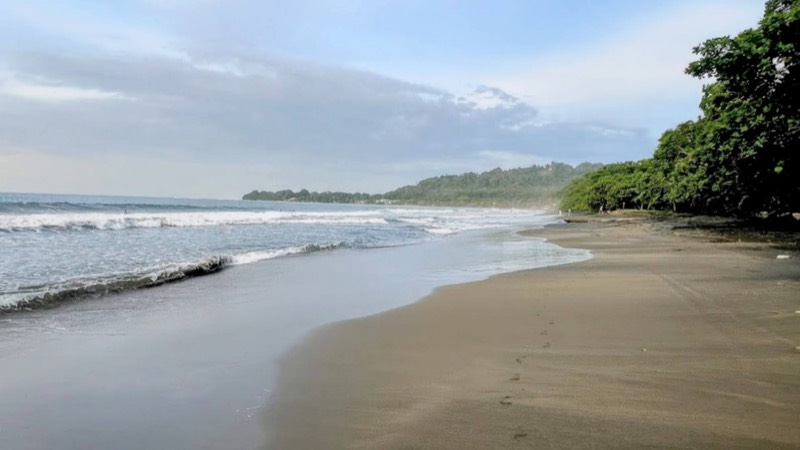
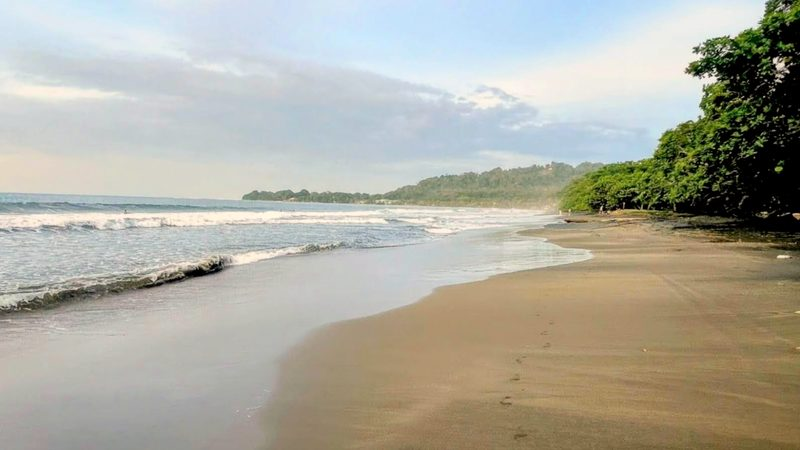
Portada: tarjeta de la oferta bajo la foto, «Cómo funciona» en tres pasos, foto de Playa Negra mejorada con encuadre de selva en el móvil y botón de propietarios que el build añade solo con WA_OWNERS (revisión UX C1)

diff --git a/apps/app/public/portada.html b/apps/app/public/portada.html
@@ -44,14 +44,22 @@
         <p class="soon-place">Playa Negra · Puerto Viejo de Talamanca</p>
       </div>
     </main>
+    <section class="soon-offer" aria-labelledby="oferta">
+      <h2 id="oferta">¿Tiene una casa en el Caribe?</h2>
+      <p><b>Las primeras 50 casas: 12 meses gratis.</b> Después, ₡9 900 al mes por casa, sin comisiones ni permanencia.</p>
+      <!--cta-propietarios--><p class="soon-later">Abrimos pronto en el Caribe sur.</p><!--/cta-propietarios-->
+    </section>
     <section class="soon-more" aria-labelledby="que-es">
       <h2 id="que-es">Qué es bnbtico</h2>
       <p>Un catálogo de casas, apartamentos y habitaciones en alquiler en Costa Rica, publicados por quienes los alquilan. Usted ve la casa, el precio por noche o por mes y le escribe al propietario por WhatsApp. Sin intermediarios, sin comisiones por reserva.</p>
       <h2>Dónde empezamos</h2>
       <p>En el Caribe sur de Limón: Puerto Viejo de Talamanca, Playa Negra, Cocles, Playa Chiquita, Punta Uva, Manzanillo y Cahuita. Casas frente al mar, en la selva o en el pueblo, para un fin de semana, unas vacaciones o una temporada completa.</p>
       <h2>Cómo funciona</h2>
-      <p>Quien tiene una casa la publica con sus fotos, su precio en colones y su WhatsApp verificado; bnbtico la revisa antes de mostrarla. Quien busca, explora sin registrarse, guarda favoritos y contacta directo con un mensaje ya redactado con fechas y personas. El acuerdo es entre las dos personas; nosotros solo las ponemos en contacto.</p>
-      <p class="small muted">¿Tiene una casa en el Caribe? Las primeras 50 casas publicadas tendrán 12 meses gratis.</p>
+      <ol class="soon-steps">
+        <li><b>El propietario publica</b> su casa con fotos, precio en colones y su WhatsApp verificado. bnbtico la revisa antes de mostrarla.</li>
+        <li><b>Usted la encuentra</b> sin registrarse, guarda sus favoritas y le escribe con un mensaje ya redactado con fechas y personas.</li>
+        <li><b>Acuerdan directo</b> por WhatsApp, sin intermediarios ni comisiones. Nosotros solo los ponemos en contacto.</li>
+      </ol>
     </section>
     <script type="application/ld+json">{"@context":"https://schema.org","@graph":[{"@type":"Organization","@id":"https://bnbtico.com/#org","name":"bnbtico","url":"https://bnbtico.com","logo":"https://bnbtico.com/icons/icono-512.png","areaServed":"Costa Rica"},{"@type":"WebSite","@id":"https://bnbtico.com/#web","name":"bnbtico","url":"https://bnbtico.com","description":"Una nueva forma de descubrir y alquilar alojamientos en Costa Rica. Más cerca de lo local.","inLanguage":"es-CR","publisher":{"@id":"https://bnbtico.com/#org"}}]}</script>
   </body>

diff --git a/apps/app/vite.config.ts b/apps/app/vite.config.ts
@@ -1,9 +1,10 @@
 import { cloudflare } from "@cloudflare/vite-plugin";
 import react from "@vitejs/plugin-react";
-import { appendFileSync, existsSync, readFileSync, readdirSync, statSync } from "node:fs";
+import { appendFileSync, existsSync, readFileSync, readdirSync, statSync, writeFileSync } from "node:fs";
 import { join, relative } from "node:path";
 import ts from "typescript";
 import { build, defineConfig, loadEnv, type Plugin } from "vite";
+import { withOwnerCta } from "./src/domain/portada";
 import { launchedFor, supportNumbersCheck } from "./src/domain/support";
 import { staticHeadersBlock } from "./src/shared/security";
 import { precacheList } from "./src/sw/routes";
@@ -77,6 +78,26 @@ function securityHeadersFile(): Plugin {
  * Números de WhatsApp de Ayuda (revisión UX A12): con LAUNCHED "true" en el entorno de wrangler que se construye
  * (`CLOUDFLARE_ENV`) el build falla sin ellos; si no, en CI deja un aviso visible en el log de GitHub Actions.
  */
+/**
+ * Botón de propietarios de la portada (revisión UX C1): con `VITE_WA_OWNERS`, el build cambia en dist/client/portada.html la
+ * frase «Abrimos pronto…» por el enlace a WhatsApp. Sin número, la portada se queda como está (sin botón muerto).
+ */
+function portadaOwnerCta(): Plugin {
+  let owners: string | undefined;
+  return {
+    name: "bnbtico:portada-cta",
+    apply: "build",
+    applyToEnvironment: (env) => env.name === "client",
+    configResolved(config) {
+      owners = loadEnv(config.mode, root, "VITE_").VITE_WA_OWNERS ?? process.env.VITE_WA_OWNERS;
+    },
+    writeBundle(options) {
+      const file = join(options.dir!, "portada.html");
+      if (existsSync(file)) writeFileSync(file, withOwnerCta(readFileSync(file, "utf8"), owners));
+    },
+  };
+}
+
 function supportNumbers(): Plugin {
   return {
     name: "bnbtico:support-numbers",
@@ -96,7 +117,7 @@ function supportNumbers(): Plugin {
 }
 
 export default defineConfig({
-  plugins: [react(), cloudflare(), serviceWorker(), securityHeadersFile(), supportNumbers()],
+  plugins: [react(), cloudflare(), serviceWorker(), securityHeadersFile(), supportNumbers(), portadaOwnerCta()],
   define: { __BUILD_ID__: JSON.stringify(buildId) },
   // La base local (Docker) llama a /_purge del preview por host.docker.internal (pg_net, tests/e2e/frescura.spec.ts).
   preview: { allowedHosts: ["host.docker.internal"] },

diff --git a/apps/app/public/portada/portada.css b/apps/app/public/portada/portada.css
@@ -14,7 +14,7 @@ p{margin:0}
 .small{font-size:13px}.muted{color:var(--muted)}
 .soon{position:relative;min-height:100dvh;display:grid;place-items:end center;padding:24px 20px calc(44px + env(safe-area-inset-bottom));overflow:hidden;color:#FFFBF2;background:#1C2B2A}
 .soon-bg{position:absolute;inset:0;z-index:0}
-.soon-bg img{position:absolute;inset:0;width:100%;height:100%;object-fit:cover;object-position:74% 50%}
+.soon-bg img{position:absolute;inset:0;width:100%;height:100%;object-fit:cover;object-position:85% 70%}
 .soon-shade{position:absolute;inset:0;background:linear-gradient(180deg,rgba(28,43,42,.10) 0%,rgba(28,43,42,.22) 40%,rgba(28,43,42,.70) 72%,rgba(28,43,42,.92) 100%)}
 .soon-card{position:relative;z-index:1;max-width:420px;width:100%;text-align:center;display:grid;gap:14px;justify-items:center}
 .soon-eyebrow{display:inline-flex;align-items:center;padding:6px 12px;border-radius:999px;background:#FBE8C2;color:#7A4E07;font-size:12px;font-weight:700;letter-spacing:.04em;text-transform:uppercase}
@@ -25,4 +25,12 @@ p{margin:0}
 .soon-more{max-width:560px;margin:0 auto;padding:36px 20px calc(40px + env(safe-area-inset-bottom));display:grid;gap:14px}
 .soon-more h2{font-size:22px;margin-top:8px}
 .soon-more p{line-height:1.55}
-@media (min-width:760px){.soon{place-items:center}.soon-shade{background:linear-gradient(180deg,rgba(28,43,42,.25),rgba(28,43,42,.55))}.soon-title{font-size:40px}}
+@media (min-width:760px){.soon-bg img{object-position:74% 50%}.soon{place-items:center}.soon-shade{background:linear-gradient(180deg,rgba(28,43,42,.25),rgba(28,43,42,.55))}.soon-title{font-size:40px}}
+.soon-offer{max-width:560px;margin:24px auto 0;padding:20px;border-radius:24px;background:#FBE8C2;color:#1C2B2A;display:grid;gap:10px;width:calc(100% - 40px)}
+.soon-offer h2{font-size:22px}
+.soon-offer b{color:var(--sun-ink)}
+.soon-later{font-weight:700;color:var(--sun-ink)}
+.soon-cta{display:flex;align-items:center;justify-content:center;min-height:52px;padding:0 20px;border-radius:999px;background:#2F5D45;color:#FFFBF2;font-family:var(--display);font-weight:800;font-size:16px;text-decoration:none}
+.soon-steps{margin:0;padding-left:22px;display:grid;gap:10px}
+.soon-steps li{line-height:1.5}
+.soon-steps li::marker{font-family:var(--display);font-weight:800;color:#2F5D45}

diff --git a/apps/app/tests/e2e/portada.spec.ts b/apps/app/tests/e2e/portada.spec.ts
@@ -9,6 +9,13 @@ test("`/?pronto=1` muestra la portada sin JavaScript, con su imagen, su CSP y su
   expect(res!.headers()["content-security-policy"]).toContain("script-src 'self';");
   await expect(page.getByRole("heading", { level: 1, name: "Alquile en el Caribe de Costa Rica, directo con quien lo recibe" })).toBeVisible();
   await expect(page.getByText("Muy pronto")).toBeVisible();
+  // Revisión UX C1: la oferta en su tarjeta bajo la foto y «Cómo funciona» en tres pasos. Sin número de WhatsApp de
+  // propietarios (como aquí), la frase de «abrimos pronto» en vez de un botón.
+  await expect(page.getByRole("heading", { level: 2, name: "¿Tiene una casa en el Caribe?" })).toBeVisible();
+  await expect(page.getByText("Las primeras 50 casas: 12 meses gratis.")).toBeVisible();
+  await expect(page.getByText("Abrimos pronto en el Caribe sur.")).toBeVisible();
+  await expect(page.getByRole("link", { name: "Quiero publicar mi casa gratis" })).toHaveCount(0);
+  await expect(page.locator(".soon-steps li")).toHaveCount(3);
   await expect(page).toHaveTitle("bnbtico · Casas y alojamientos en alquiler en el Caribe de Costa Rica");
   await expect(page.locator('link[rel="canonical"]')).toHaveAttribute("href", "https://bnbtico.com/");
   await expect(page.locator('meta[property="og:image"]')).toHaveAttribute("content", "https://bnbtico.com/og.jpg");

diff --git a/apps/app/tests/unit/portada.ctas.test.ts b/apps/app/tests/unit/portada.ctas.test.ts
@@ -1,0 +1,19 @@
+import { describe, expect, it } from "vitest";
+import { OWNER_CTA_TEXT, withOwnerCta } from "../../src/domain/portada";
+
+// Revisión UX C1: el botón de propietarios de la portada solo existe cuando hay número de WhatsApp de bnbtico.
+const HTML = `<p>antes</p><!--cta-propietarios--><p class="soon-later">Abrimos pronto en el Caribe sur.</p><!--/cta-propietarios--><p>después</p>`;
+
+describe("botón de propietarios de la portada", () => {
+  it("sin número se queda la frase de «abrimos pronto», sin botón muerto", () => {
+    expect(withOwnerCta(HTML, undefined)).toBe(HTML);
+    expect(withOwnerCta(HTML, "  ")).toBe(HTML);
+  });
+  it("con número, un enlace a WhatsApp con el mensaje redactado en vez de la frase", () => {
+    const out = withOwnerCta(HTML, "+506 6000 0000");
+    expect(out).toContain(`href="https://wa.me/50660000000?text=${encodeURIComponent(OWNER_CTA_TEXT)}"`);
+    expect(out).toContain(">Quiero publicar mi casa gratis</a>");
+    expect(out).not.toContain("Abrimos pronto");
+    expect(out.startsWith("<p>antes</p>") && out.endsWith("<p>después</p>")).toBe(true);
+  });
+});

diff --git a/apps/app/src/domain/portada.ts b/apps/app/src/domain/portada.ts
@@ -1,0 +1,14 @@
+// Botón de propietarios de la portada (revisión UX C1). La portada es HTML estático sin JS: el build sustituye el bloque
+// marcado por el enlace a WhatsApp cuando hay número de atención a propietarios (`VITE_WA_OWNERS`); sin él se queda la
+// frase «Abrimos pronto en el Caribe sur.», nunca un botón que no lleva a ningún sitio.
+import { waUrl } from "./whatsapp";
+
+export const OWNER_CTA_TEXT = "Hola, tengo una casa en el Caribe sur y quiero publicarla en bnbtico.";
+
+const BLOCK = /<!--cta-propietarios-->[\s\S]*?<!--\/cta-propietarios-->/;
+
+export function withOwnerCta(html: string, ownersNumber: string | undefined): string {
+  if (!ownersNumber?.trim()) return html;
+  const href = waUrl(ownersNumber, OWNER_CTA_TEXT).replace(/&/g, "&amp;");
+  return html.replace(BLOCK, `<a class="soon-cta" href="${href}" rel="noopener">Quiero publicar mi casa gratis</a>`);
+}
